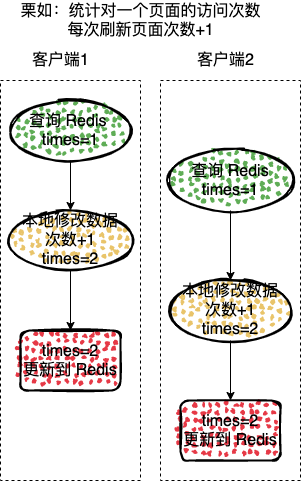
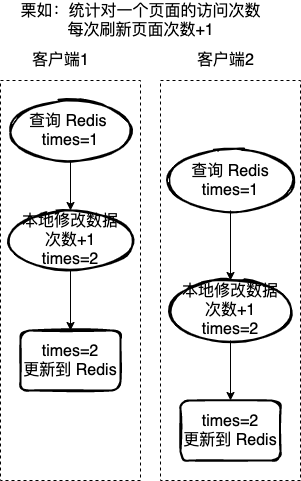
feat:redis 中的并发访问

diff --git a/redis/9、Redis原子操作.md b/redis/9、Redis原子操作.md
@@ -25,7 +25,7 @@
 
 错误的栗子：  
 
-统计一个页面的访问次数，每次刷线页面访问次数+1，这里使用 Redis 来记录访问次数。  
+统计一个页面的访问次数，每次刷新页面访问次数+1，这里使用 Redis 来记录访问次数。  
 
 如果每次的`读取-修改-写回`操作不是一个原子操作，那么就可能存在下图的问题，客户端2在客户端1操作的中途，也获取 Redis 的值，也对值进行+1，操作，这样就导致最终数据的错误。  
 
